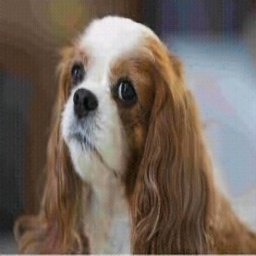
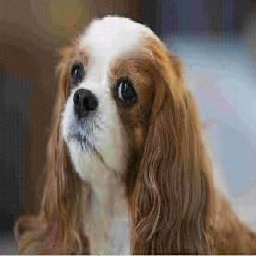
Use PIL Image to resize before feeding to model

diff --git a/posts/views.py b/posts/views.py
@@ -66,7 +66,7 @@ def denoise(image_path, new_image_name):
     model_path = os.path.join(settings.MEDIA_ROOT, model_name)
     model.load_state_dict(torch.load(model_path, map_location='cpu'))
     model.eval()
-    my_transforms = transforms.Compose([transforms.Resize((256, 256)), transforms.ToTensor(),  transforms.Normalize((0.5, 0.5, 0.5), (0.5, 0.5, 0.5))])
+    my_transforms = transforms.Compose([transforms.ToTensor(),  transforms.Normalize((0.5, 0.5, 0.5), (0.5, 0.5, 0.5))])
     my_dataset = MyDataset(image_path, my_transforms)
     new_img_path = os.path.join(settings.MEDIA_ROOT, new_image_name)
     for i in range(len(my_dataset)):
@@ -109,6 +109,7 @@ class MyDataset(Dataset):
         return 1
     def __getitem__(self, idx):
         image = Image.open(self.img_path).convert('RGB')
+        image = image.resize((256, 256))
         if self.transform:
             image = self.transform(image)
         return image
